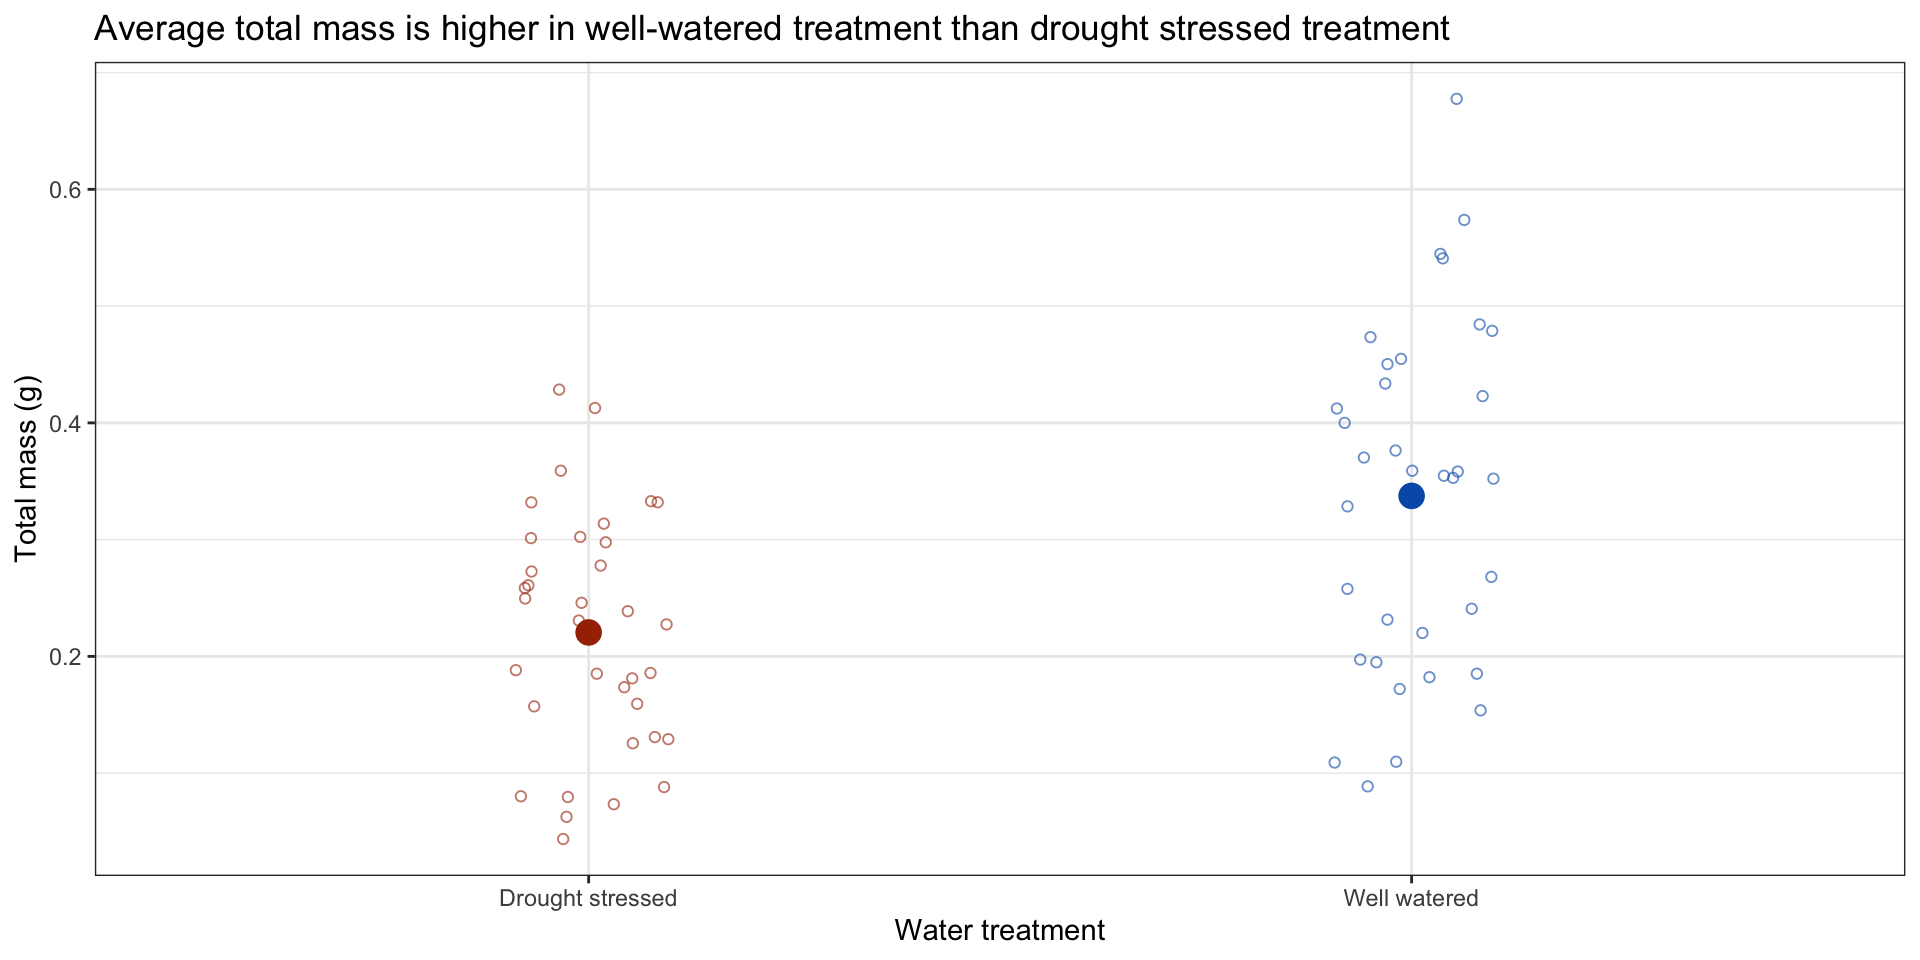
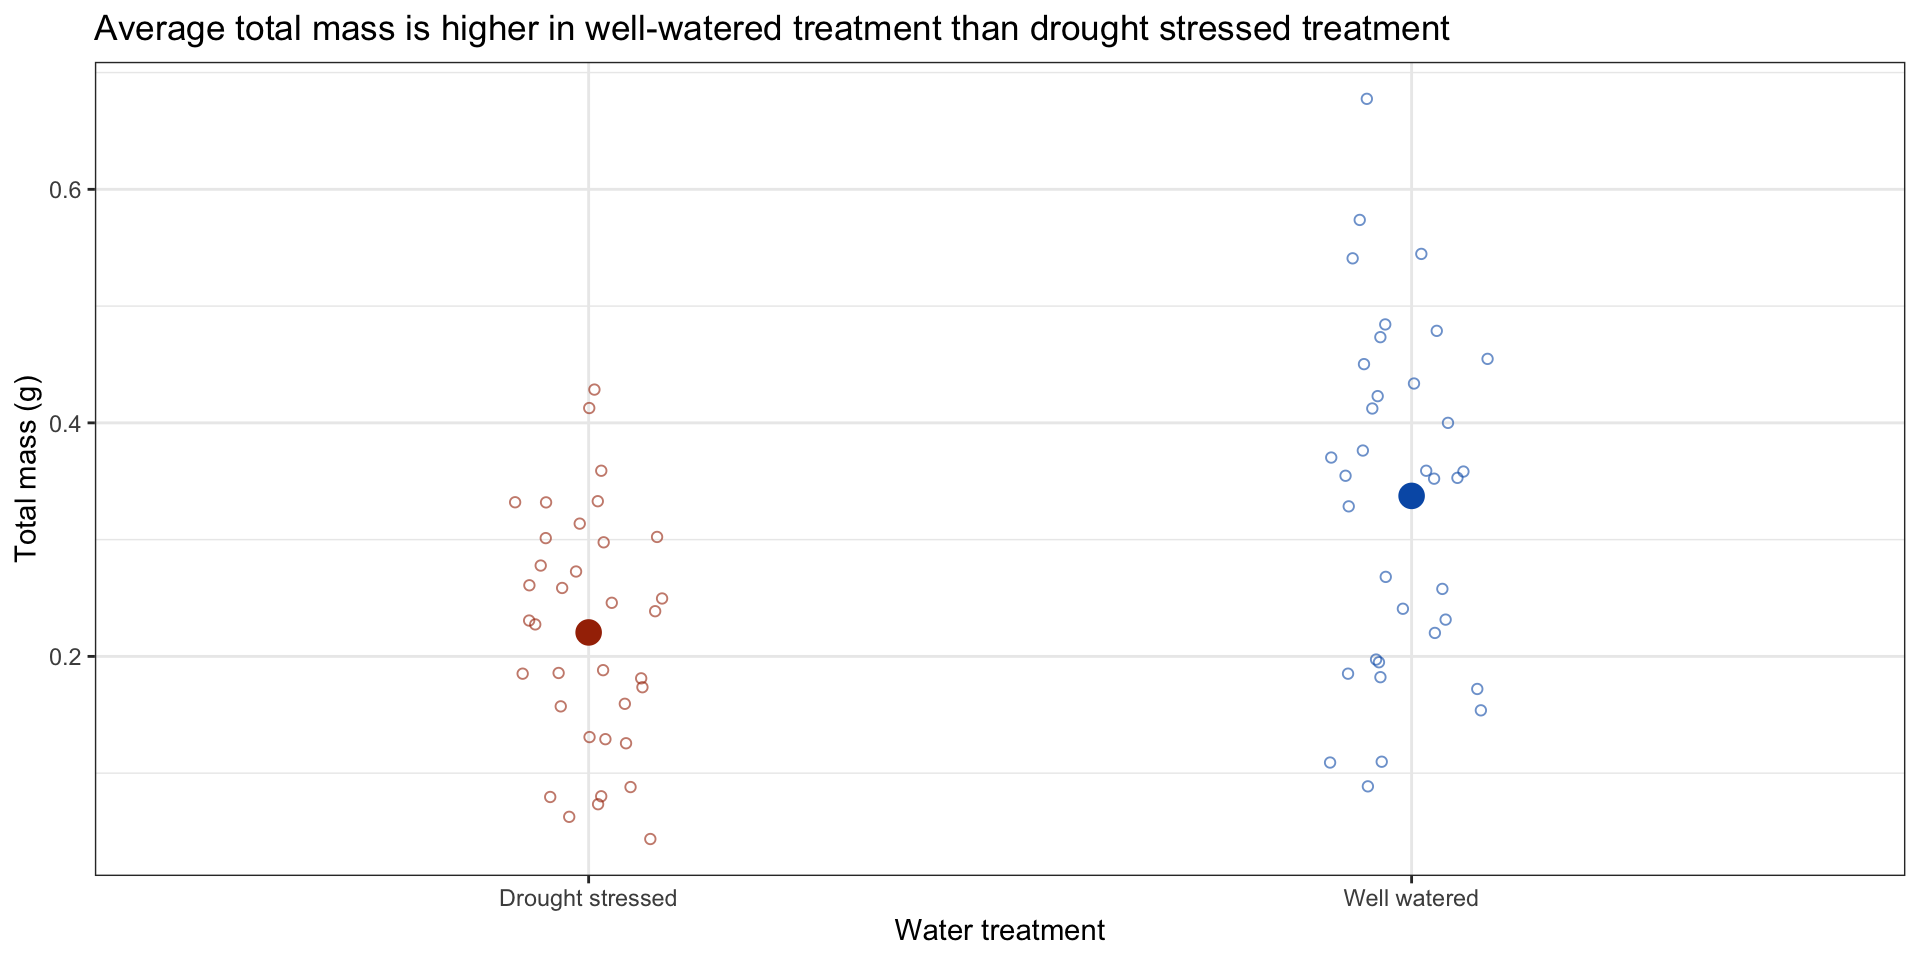
updating project page

diff --git a/docs/project_page.html b/docs/project_page.html
@@ -189,8 +189,11 @@ window.Quarto = {
   <ul>
   <li><a href="#ccber" id="toc-ccber" class="nav-link active" data-scroll-target="#ccber">CCBER</a>
   <ul class="collapse">
+  <li><a href="#interactive-map-showing-restoration-sites-and-rest-areas" id="toc-interactive-map-showing-restoration-sites-and-rest-areas" class="nav-link" data-scroll-target="#interactive-map-showing-restoration-sites-and-rest-areas">Interactive Map showing Restoration sites and Rest areas</a>
+  <ul class="collapse">
   <li><a href="#flowers-sites-i-work-at-with-ccber" id="toc-flowers-sites-i-work-at-with-ccber" class="nav-link" data-scroll-target="#flowers-sites-i-work-at-with-ccber">Flowers: Sites I work at with CCBER</a></li>
   <li><a href="#stars-some-of-my-favorite-rest-spots-onaround-campus" id="toc-stars-some-of-my-favorite-rest-spots-onaround-campus" class="nav-link" data-scroll-target="#stars-some-of-my-favorite-rest-spots-onaround-campus">Stars: Some of my favorite rest spots on/around campus</a></li>
+  </ul></li>
   </ul></li>
   <li><a href="#analysis-of-sample-restoration-data" id="toc-analysis-of-sample-restoration-data" class="nav-link" data-scroll-target="#analysis-of-sample-restoration-data">Analysis of sample restoration data</a>
   <ul class="collapse">
@@ -229,6 +232,8 @@ window.Quarto = {
 <section id="ccber" class="level1">
 <h1>CCBER</h1>
 <p>I am a student worker for the Cheadle Center for Biodiversity and Ecological Restoration. In this, we remove invasive plants using different techniques, such as solarization, manual removal, controlled burns, and careful use of grass specific herbicide. We also collect seeds from local native plants in order to spread to other areas around campus and increase the local plant biodiversity. I have learned a lot about the different native plants in the Isla Vista area, as well as useful land management strategies.</p>
+<section id="interactive-map-showing-restoration-sites-and-rest-areas" class="level2">
+<h2 class="anchored" data-anchor-id="interactive-map-showing-restoration-sites-and-rest-areas">Interactive Map showing Restoration sites and Rest areas</h2>
 <p>{=html} <iframe width="100%" height="600" frameborder="0" scrolling="no" allowfullscreen="" src="https://ucsb.maps.arcgis.com/apps/instant/basic/index.html?webmap=caf9f14297664734bc232aa3dc1a769f"> </iframe></p>
 <section id="flowers-sites-i-work-at-with-ccber" class="level3">
 <h3 class="anchored" data-anchor-id="flowers-sites-i-work-at-with-ccber">Flowers: Sites I work at with CCBER</h3>
@@ -237,9 +242,10 @@ window.Quarto = {
 <h3 class="anchored" data-anchor-id="stars-some-of-my-favorite-rest-spots-onaround-campus">Stars: Some of my favorite rest spots on/around campus</h3>
 </section>
 </section>
+</section>
 <section id="analysis-of-sample-restoration-data" class="level1">
 <h1>Analysis of sample restoration data</h1>
-<p>I am currently taking an Environmental Data Science class. In workshop, we worked with <a href="https://doi.org/10.5061/dryad.v0861f7">this data</a> to answer this question: How do specific leaf area, water treatment, and species influence plant mass?</p>
+<p>I am currently taking an Environmental Data Science class. In workshop, we worked with <a href="https://doi.org/10.5061/dryad.v0861f7">this data</a> to answer this question: How do specific leaf area, water treatment, and species influence plant mass? Results of this question can better inform restoration plans. Below is the completed workshop assignment, including code from r and it’s output.</p>
 <p><strong>Specific leaf area</strong> is a continuous variable measured in cm<sup>2</sup>/g.</p>
 <p><strong>Water treatment</strong> is a categorical variable (i.e.&nbsp;a <em>factor</em>) with 2 levels: drought stressed (DS) and well watered (WW).</p>
 <p><strong>Species</strong> is a categorical variable (again, a <em>factor</em>) with 6 levels.</p>
@@ -292,20 +298,19 @@ window.Quarto = {
 <section id="setting-up-r" class="level3">
 <h3 class="anchored" data-anchor-id="setting-up-r">1. Setting up R</h3>
 <div class="cell">
-<div class="sourceCode cell-code" id="cb1"><pre class="sourceCode r code-with-copy"><code class="sourceCode r"><span id="cb1-1"><a href="#cb1-1" aria-hidden="true" tabindex="-1"></a><span class="co"># read in your packages here</span></span>
-<span id="cb1-2"><a href="#cb1-2" aria-hidden="true" tabindex="-1"></a><span class="fu">library</span>(tidyverse) <span class="co"># general use</span></span>
-<span id="cb1-3"><a href="#cb1-3" aria-hidden="true" tabindex="-1"></a><span class="fu">library</span>(here) <span class="co"># file organization</span></span>
-<span id="cb1-4"><a href="#cb1-4" aria-hidden="true" tabindex="-1"></a><span class="fu">library</span>(janitor) <span class="co"># cleaning data frames</span></span>
-<span id="cb1-5"><a href="#cb1-5" aria-hidden="true" tabindex="-1"></a><span class="fu">library</span>(readxl) <span class="co"># reading excel files</span></span>
-<span id="cb1-6"><a href="#cb1-6" aria-hidden="true" tabindex="-1"></a><span class="fu">library</span>(scales) <span class="co"># modifying axis labels</span></span>
-<span id="cb1-7"><a href="#cb1-7" aria-hidden="true" tabindex="-1"></a><span class="fu">library</span>(ggeffects) <span class="co"># getting model predictions</span></span>
-<span id="cb1-8"><a href="#cb1-8" aria-hidden="true" tabindex="-1"></a><span class="fu">library</span>(MuMIn) <span class="co"># model selection</span></span>
-<span id="cb1-9"><a href="#cb1-9" aria-hidden="true" tabindex="-1"></a></span>
-<span id="cb1-10"><a href="#cb1-10" aria-hidden="true" tabindex="-1"></a><span class="co"># read in your data here</span></span>
-<span id="cb1-11"><a href="#cb1-11" aria-hidden="true" tabindex="-1"></a><span class="fu">library</span>(readxl)</span>
-<span id="cb1-12"><a href="#cb1-12" aria-hidden="true" tabindex="-1"></a>drought_exp <span class="ot">&lt;-</span> <span class="fu">read_excel</span>(<span class="st">"Valliere_etal_EcoApps_Data copy.xlsx"</span>)</span>
-<span id="cb1-13"><a href="#cb1-13" aria-hidden="true" tabindex="-1"></a>  <span class="co"># specifying which sheet you want to read in</span></span>
-<span id="cb1-14"><a href="#cb1-14" aria-hidden="true" tabindex="-1"></a>  sheet <span class="ot">=</span> <span class="st">"First Harvest"</span></span></code><button title="Copy to Clipboard" class="code-copy-button"><i class="bi"></i></button></pre></div>
+<div class="sourceCode cell-code" id="cb1"><pre class="sourceCode r code-with-copy"><code class="sourceCode r"><span id="cb1-1"><a href="#cb1-1" aria-hidden="true" tabindex="-1"></a><span class="fu">library</span>(tidyverse) </span>
+<span id="cb1-2"><a href="#cb1-2" aria-hidden="true" tabindex="-1"></a><span class="fu">library</span>(here) </span>
+<span id="cb1-3"><a href="#cb1-3" aria-hidden="true" tabindex="-1"></a><span class="fu">library</span>(janitor) </span>
+<span id="cb1-4"><a href="#cb1-4" aria-hidden="true" tabindex="-1"></a><span class="fu">library</span>(readxl) </span>
+<span id="cb1-5"><a href="#cb1-5" aria-hidden="true" tabindex="-1"></a><span class="fu">library</span>(scales) </span>
+<span id="cb1-6"><a href="#cb1-6" aria-hidden="true" tabindex="-1"></a><span class="fu">library</span>(ggeffects) </span>
+<span id="cb1-7"><a href="#cb1-7" aria-hidden="true" tabindex="-1"></a><span class="fu">library</span>(MuMIn) </span>
+<span id="cb1-8"><a href="#cb1-8" aria-hidden="true" tabindex="-1"></a></span>
+<span id="cb1-9"><a href="#cb1-9" aria-hidden="true" tabindex="-1"></a><span class="co"># read in data</span></span>
+<span id="cb1-10"><a href="#cb1-10" aria-hidden="true" tabindex="-1"></a><span class="fu">library</span>(readxl)</span>
+<span id="cb1-11"><a href="#cb1-11" aria-hidden="true" tabindex="-1"></a>drought_exp <span class="ot">&lt;-</span> <span class="fu">read_excel</span>(<span class="st">"Valliere_etal_EcoApps_Data copy.xlsx"</span>)</span>
+<span id="cb1-12"><a href="#cb1-12" aria-hidden="true" tabindex="-1"></a>  <span class="co"># specifying which sheet you want to read in</span></span>
+<span id="cb1-13"><a href="#cb1-13" aria-hidden="true" tabindex="-1"></a>  sheet <span class="ot">=</span> <span class="st">"First Harvest"</span></span></code><button title="Copy to Clipboard" class="code-copy-button"><i class="bi"></i></button></pre></div>
 </div>
 <p>Storing some colors to use in visualizations, and setting a common <code>ggplot</code> theme for all plots:</p>
 <div class="cell">
@@ -389,22 +394,22 @@ window.Quarto = {
 <pre><code># A tibble: 10 × 4
    species_name               water_treatment    sla total_g
    &lt;fct&gt;                      &lt;fct&gt;            &lt;dbl&gt;   &lt;dbl&gt;
- 1 Lotus scoparius            Drought stressed  90.9  0.0796
- 2 Lotus scoparius            Well watered     137.   0.109 
- 3 Penstemon centranthifolius Drought stressed 161.   0.174 
- 4 Lotus scoparius            Drought stressed 116.   0.0802
- 5 Stipa pulchra              Drought stressed 146.   0.246 
- 6 Encelia californica        Drought stressed 192.   0.261 
- 7 Penstemon centranthifolius Well watered     158.   0.154 
- 8 Encelia californica        Well watered     216.   0.359 
- 9 Salvia leucophylla         Well watered      96.5  0.4   
-10 Penstemon centranthifolius Drought stressed 146.   0.126 </code></pre>
+ 1 Stipa pulchra              Drought stressed 176.   0.181 
+ 2 Salvia leucophylla         Drought stressed  74.4  0.131 
+ 3 Salvia leucophylla         Well watered     127.   0.258 
+ 4 Salvia leucophylla         Well watered      96.2  0.232 
+ 5 Lotus scoparius            Drought stressed  90.9  0.0796
+ 6 Grindelia camporum         Drought stressed 113.   0.413 
+ 7 Encelia californica        Well watered     170.   0.455 
+ 8 Eschscholzia californica   Well watered     122.   0.541 
+ 9 Penstemon centranthifolius Well watered     165.   0.197 
+10 Penstemon centranthifolius Drought stressed 161.   0.174 </code></pre>
 </div>
 </div>
 </section>
 <section id="visualizing-data" class="level3">
 <h3 class="anchored" data-anchor-id="visualizing-data">3. Visualizing data</h3>
-<p>What is the relationship between SLA and total mass?</p>
+<p>This code hopes to answer the question, what is the relationship between SLA and total mass?</p>
 <div class="cell">
 <div class="sourceCode cell-code" id="cb8"><pre class="sourceCode r code-with-copy"><code class="sourceCode r"><span id="cb8-1"><a href="#cb8-1" aria-hidden="true" tabindex="-1"></a><span class="co"># base layer: ggplot</span></span>
 <span id="cb8-2"><a href="#cb8-2" aria-hidden="true" tabindex="-1"></a><span class="fu">ggplot</span>(<span class="at">data =</span> drought_exp_clean,</span>
@@ -759,7 +764,6 @@ F-statistic: 27.08 on 7 and 62 DF,  p-value: &lt; 2.2e-16</code></pre>
 <span id="cb24-7"><a href="#cb24-7" aria-hidden="true" tabindex="-1"></a>  <span class="fu">rename</span>(<span class="at">species_name =</span> x,</span>
 <span id="cb24-8"><a href="#cb24-8" aria-hidden="true" tabindex="-1"></a>         <span class="at">water_treatment =</span> group)</span></code><button title="Copy to Clipboard" class="code-copy-button"><i class="bi"></i></button></pre></div>
 </div>
-<p>Before plotting, LOOK AT THE PREDICTION DATA FRAME using <code>View(model4_predictions)</code> or by clicking on the object in the Environment.</p>
 </section>
 <section id="final-figure" class="level3">
 <h3 class="anchored" data-anchor-id="final-figure">6. Final figure</h3>
